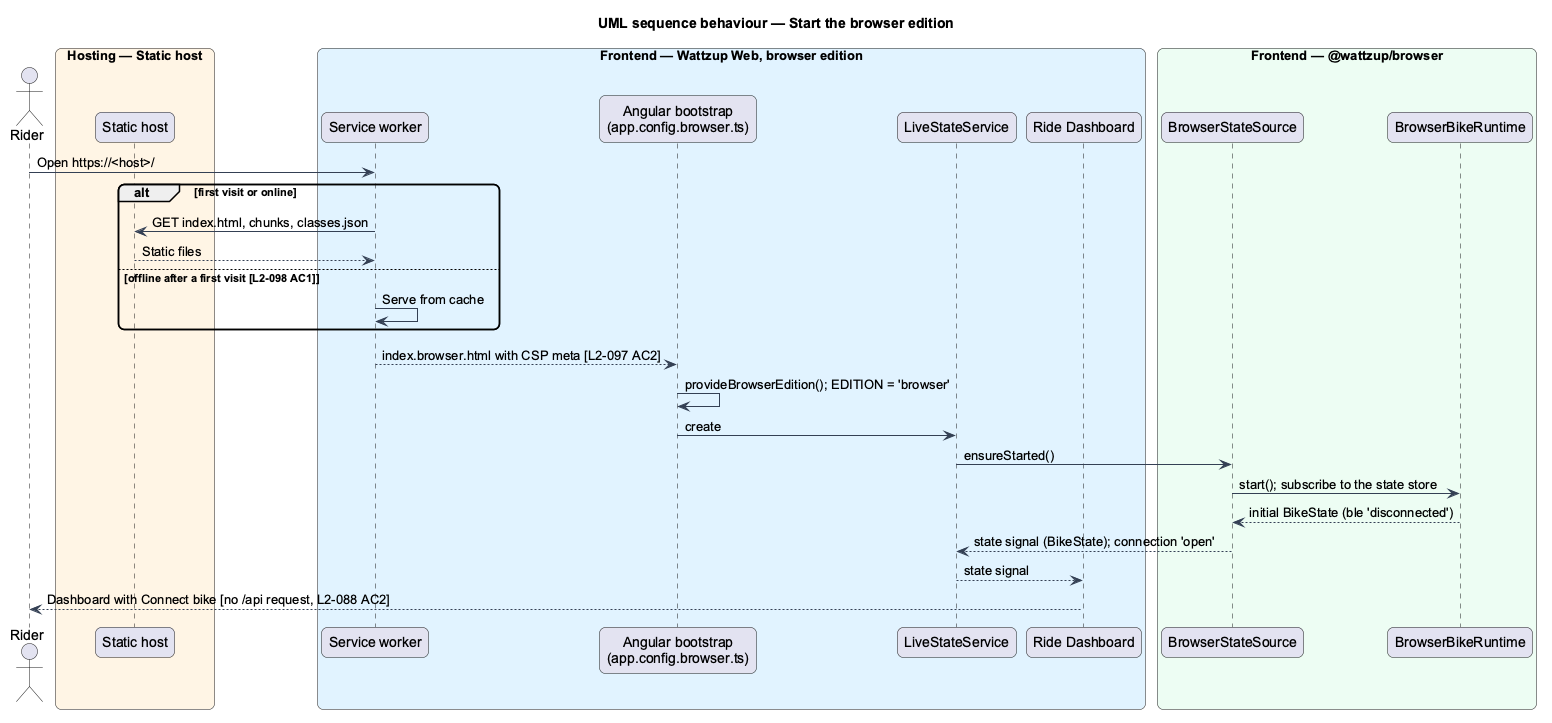
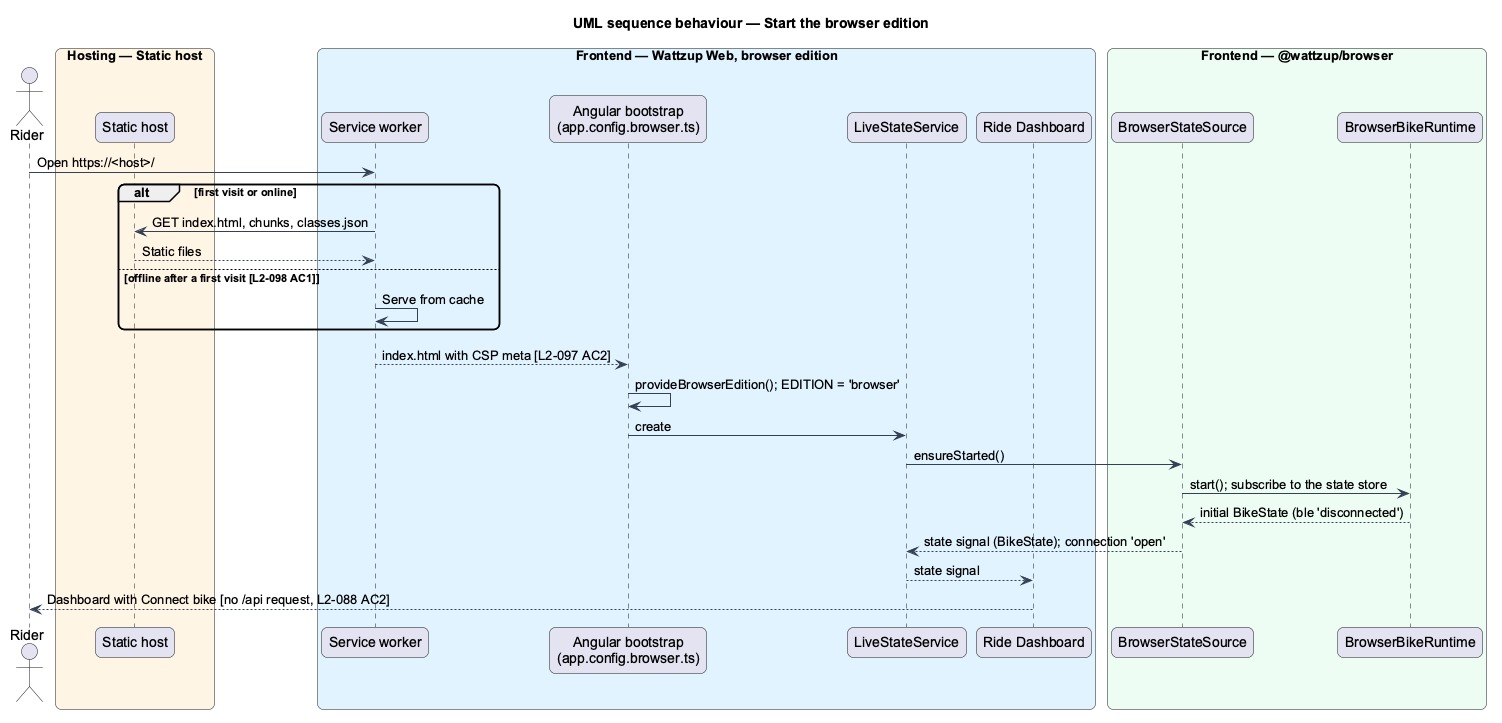
Carry the browser edition's Content-Security-Policy (L2-097 AC2)
index.browser.html, written out as index.html by both browser
configurations, carries the backend's policy as a <meta> element:
the page's own origin plus YouTube's player, script and thumbnails.

ADR 0018 records the two differences. A static host cannot mint the
per-response nonce the backend gives Angular's <style> elements, so
style-src allows 'unsafe-inline'. frame-ancestors has no <meta> form
and is left to the hosting example's header. L2-097 AC2 says so.

Every browser-edition spec fails on a console error, so the suite
proves no page breaks the policy.

Claude-Session: https://claude.ai/code/session_01LjZiMpoGntqpkHCTb1UvJf

diff --git a/frontend/e2e/browser/security.spec.ts b/frontend/e2e/browser/security.spec.ts
@@ -1,0 +1,35 @@
+// Acceptance Test
+// Traces to: L2-097
+// Description: The browser edition carries its Content-Security-Policy as a <meta> element. It
+// allows its own origin and the 3 YouTube exceptions only. Every browser-edition spec fails on a
+// console error, so a violation of the policy anywhere fails the suite.
+import { expect, test } from './fixtures/browser-test';
+import { BrowserRidePage } from './pages/browser-ride.page';
+
+test('every page carries the same-origin policy with the YouTube exceptions (L2-097 AC2)', async ({
+  page,
+}) => {
+  const ride = new BrowserRidePage(page);
+  await ride.open();
+  const policy = await ride.contentSecurityPolicy();
+  const directives = Object.fromEntries(
+    policy
+      .split(';')
+      .map((d) => d.trim().split(/\s+/))
+      .filter((d) => d[0])
+      .map(([name, ...values]) => [name, values]),
+  );
+  expect(directives).toMatchObject({
+    'default-src': ["'self'"],
+    'script-src': ["'self'", 'https://www.youtube.com'],
+    'connect-src': ["'self'"],
+    'img-src': ["'self'", 'data:', 'https://i.ytimg.com'],
+    'frame-src': ['https://www.youtube-nocookie.com'],
+    'font-src': ["'self'"],
+    'object-src': ["'none'"],
+    'base-uri': ["'self'"],
+  });
+  // A static host cannot mint a nonce per response, so Angular's own <style> elements need
+  // 'unsafe-inline' (ADR 0018); styles still load from no other origin.
+  expect(directives['style-src']).toEqual(["'self'", "'unsafe-inline'"]);
+});

diff --git a/frontend/projects/wattzup/src/index.browser.html b/frontend/projects/wattzup/src/index.browser.html
@@ -1,0 +1,21 @@
+<!doctype html>
+<html lang="en" data-theme="dark">
+  <head>
+    <meta charset="utf-8" />
+    <!-- The browser edition's policy, as the backend's header (L2-036) but static (L2-097, ADR 0018):
+         a static host cannot mint a style nonce, and a <meta> policy cannot carry frame-ancestors. -->
+    <meta
+      http-equiv="Content-Security-Policy"
+      content="default-src 'self'; script-src 'self' https://www.youtube.com; style-src 'self' 'unsafe-inline'; font-src 'self'; connect-src 'self'; img-src 'self' data: https://i.ytimg.com; frame-src https://www.youtube-nocookie.com; object-src 'none'; base-uri 'self'"
+    />
+    <meta name="referrer" content="no-referrer" />
+    <title>Wattzup</title>
+    <base href="/" />
+    <meta name="viewport" content="width=device-width, initial-scale=1" />
+    <meta name="color-scheme" content="dark" />
+    <link rel="icon" type="image/svg+xml" href="favicon.svg" />
+  </head>
+  <body>
+    <wz-root></wz-root>
+  </body>
+</html>

diff --git a/frontend/e2e/browser/pages/browser-ride.page.ts b/frontend/e2e/browser/pages/browser-ride.page.ts
@@ -56,6 +56,15 @@ export class BrowserRidePage {
     return this.page.locator('.metrics > div').filter({ hasText: term }).locator('dd');
   }
 
+  /** The policy of the page's Content-Security-Policy <meta> element (L2-097 AC2). */
+  async contentSecurityPolicy(): Promise<string> {
+    return (
+      (await this.page
+        .locator('meta[http-equiv="Content-Security-Policy"]')
+        .getAttribute('content')) ?? ''
+    );
+  }
+
   async open(query = ''): Promise<void> {
     await this.page.goto(`/${query}`);
   }

diff --git a/docs/detailed-designs/browser-edition/build-and-host/README.md b/docs/detailed-designs/browser-edition/build-and-host/README.md
@@ -23,7 +23,7 @@ Build:
 - **`browser` build configuration** (`frontend/angular.json`, project `wattzup`) — production settings with 5 differences from the default configuration:
   - `fileReplacements` swaps `src/app/app.config.ts` for `src/app/app.config.browser.ts`.
   - `outputPath` is `dist/wattzup-browser`, so the 2 editions never overwrite each other.
-  - `index` is `src/index.browser.html`, which carries the Content-Security-Policy `<meta>` element (L2-097).
+  - `index` is `src/index.browser.html`, written out as `index.html`, which carries the Content-Security-Policy `<meta>` element (L2-097).
   - `assets` add `manifest.webmanifest`, the app icons and `classes.json` (see `load-classes-in-browser`).
   - `serviceWorker` is `ngsw-config.json` (L2-098).
 - **`browser-development` configuration** — the same replacements without optimisation, used by `npm start -- --configuration browser`. Only this configuration honours `?simulate` (see `simulate-bike-in-browser`).
@@ -53,7 +53,7 @@ Wiring:
 Hosting, security and offline:
 
 - **Routing on a static host** — routes use the path location strategy, as in the backend edition. The README's *Browser edition* section gives the fallback setting for common hosts (Netlify `_redirects`, nginx `try_files`, `http-server --proxy`) so a deep link such as `/sessions/<id>` serves `index.html` (L2-088 criterion 3). `<TO SUPPLY>`: the default host, if the project publishes the edition itself.
-- **`index.browser.html`** — carries `<meta http-equiv="Content-Security-Policy">` with `default-src 'self'`, `connect-src 'self'`, `img-src 'self' data: https://i.ytimg.com`, `frame-src https://www.youtube-nocookie.com`, `script-src 'self' https://www.youtube.com`, `style-src 'self'` and `object-src 'none'` (L2-097 criterion 2). The hosting example also sends the same policy, `X-Content-Type-Options: nosniff` and `Referrer-Policy: no-referrer` as headers, because `frame-ancestors` and the other 2 headers have no `<meta>` form.
+- **`index.browser.html`** — the `index` of both browser configurations, written out as `index.html`. It carries `<meta http-equiv="Content-Security-Policy">` with `default-src 'self'`, `script-src 'self' https://www.youtube.com`, `style-src 'self' 'unsafe-inline'`, `font-src 'self'`, `connect-src 'self'`, `img-src 'self' data: https://i.ytimg.com`, `frame-src https://www.youtube-nocookie.com`, `object-src 'none'` and `base-uri 'self'`, and `<meta name="referrer" content="no-referrer">` (L2-097 criterion 2). It differs from the backend's header in 2 ways (ADR 0018): a static host cannot mint the per-response nonce the backend writes onto `<wz-root>`, so styles allow `'unsafe-inline'` for the `<style>` elements Angular injects; and `frame-ancestors` has no `<meta>` form. The hosting example sends the same policy plus `frame-ancestors 'none'`, `X-Content-Type-Options: nosniff` and `Referrer-Policy: no-referrer` as headers.
 - **Privacy** — the edition makes no request after loading except `classes.json`, its own static files and YouTube's player and thumbnails (L2-097 criterion 3). It has no analytics, error reporting or remote logging. Bluetooth names, error strings, catalogue text and imported text are bound as text, never as HTML (L2-097 criterion 4).
 - **Validation** — the in-browser contracts validate input with the same rules as the API and reject with the `HttpErrorResponse` the HTTP client would raise for the API's answer: the same status and ProblemDetails body with the same `code`, such as `invalid_plan` (400) and `already_connected` (409), so every screen handles it as in the backend edition (L2-097 criterion 6).
 - **`manifest.webmanifest`** — `name` `Wattzup`, `short_name` `Wattzup`, `start_url` `/`, `display` `standalone`, the theme and background colours from the design tokens, and 192 px and 512 px icons, including a maskable one (L2-098 criterion 2).
@@ -62,6 +62,7 @@ Hosting, security and offline:
 
 Verification:
 
+- `security.spec.ts` reads the policy's directives. Every browser-edition spec fails on a console error, so a violation of the policy on any page fails the suite (L2-097 criterion 2).
 - Browser-edition behaviour specs (`frontend/e2e/browser/`) run against `dist/wattzup-browser/browser` served by `scripts/serve-dist.mjs`. Every spec fails on any request to `/api/**` and on any origin other than its own and the faked YouTube (L2-088 criterion 2, L2-097 criterion 3).
 - A spec opens `/classes/<id>` and `/sessions/<id>` directly (L2-088 criterion 3).
 - The existing behaviour specs keep running against the backend edition unchanged (L2-088 criterion 4).
@@ -73,7 +74,7 @@ Verification:
 | L2 ID | Refines (L1) | Requirement |
 |-------|--------------|-------------|
 | `L2-088` | `L1-016` | Browser edition build and hosting. `npm run build:browser` shall produce static files in `dist/wattzup-browser/browser` that run Wattzup on any HTTPS static host, or on `http://localhost`, with no backend; the edition shall make no request to `/api/*` or another origin except YouTube, shall open deep links, shall leave the backend edition unchanged, shall look and behave as the backend edition except where L2-089 to L2-099 differ, and shall keep its initial JavaScript within 300 KB gzipped. |
-| `L2-097` | `L1-016` | Browser edition security and privacy. The edition shall have no API key, unlock page or event tokens; shall carry a Content-Security-Policy allowing only its own origin plus the 3 YouTube exceptions of L2-036; shall send no state, packet, session or device name off the device; shall render untrusted text as text; shall request only the Echelon service; and shall validate input by the API's rules with the API's `code` values. |
+| `L2-097` | `L1-016` | Browser edition security and privacy. The edition shall have no API key, unlock page or event tokens; shall carry a Content-Security-Policy allowing only its own origin plus the 3 YouTube exceptions of L2-036, with inline styles allowed because a static host cannot mint a nonce; shall send no state, packet, session or device name off the device; shall render untrusted text as text; shall request only the Echelon service; and shall validate input by the API's rules with the API's `code` values. |
 | `L2-098` | `L1-016` | Installable and offline. Once loaded over HTTPS, the edition shall load and run a ride from `/setup` offline, with class videos and covers unavailable; it shall be installable as an app; and a new version shall be used from the next load, never reloading a ride in progress. |
 
 ## Diagrams
@@ -104,7 +105,7 @@ The contracts and tokens live in `@wattzup/api`. The browser classes implement t
 
 ### Behaviour — start the browser edition
 
-The browser loads `index.browser.html` from the host or the service-worker cache. Angular bootstraps with the browser composition root, the runtime starts, and the dashboard renders from `LiveStateService` with no request to `/api` (L2-088, L2-097).
+The browser loads `index.html`, built from `index.browser.html`, from the host or the service-worker cache. Angular bootstraps with the browser composition root, the runtime starts, and the dashboard renders from `LiveStateService` with no request to `/api` (L2-088, L2-097).
 
 ![Sequence for starting the browser edition](diagrams/sequence-start.png)
 

diff --git a/docs/adr/0018-static-content-security-policy.md b/docs/adr/0018-static-content-security-policy.md
@@ -1,0 +1,44 @@
+# 0018. A static Content-Security-Policy for the browser edition
+
+- **Status:** Accepted
+- **Date:** 2026-11-19
+- **Amends:** [0017](0017-browser-edition.md)
+
+## Context
+
+The backend edition sends its Content-Security-Policy as a header on every response (L2-036). The
+policy allows styles from the page's own origin and from `<style>` elements that carry a nonce.
+The nonce is new for each response, and the backend writes it onto `<wz-root>` as `ngCspNonce`, so
+Angular stamps it on the `<style>` elements it injects for component styles.
+
+The browser edition is a folder of static files (ADR 0017). Any HTTPS static host serves it, and
+L2-097 asks that the policy travel with the page as a `<meta>` element. A static host returns the
+same bytes to every visitor, so it cannot mint a nonce per response. A nonce written into the file
+would be public, and a public nonce stops nothing that `'unsafe-inline'` would allow. Angular
+injects component styles as `<style>` elements, so without a nonce they need `'unsafe-inline'`.
+
+A `<meta>` policy also cannot carry `frame-ancestors`. Chromium ignores the directive there and
+logs an error for it.
+
+## Decision
+
+**The browser edition carries the backend's policy in a `<meta>` element of
+`index.browser.html`, with `style-src 'self' 'unsafe-inline'` instead of a nonce and without
+`frame-ancestors`.** Every other directive is the backend's: scripts, connections, fonts and images
+come from the page's own origin only, plus the 3 YouTube exceptions of L2-036.
+
+The hosting example in the README also sends the policy as a header, adding `frame-ancestors
+'none'`, `X-Content-Type-Options: nosniff` and `Referrer-Policy: no-referrer`, for hosts that
+can set headers.
+
+## Consequences
+
+- An attacker who could insert markup could add inline styles. That is all the change allows:
+  scripts still run only from the page's own origin and YouTube, connections reach no other
+  origin, and untrusted text is rendered as text (L2-097 criterion 4).
+- On a host that cannot send headers, another site may frame the edition. Web Bluetooth is not
+  available to a cross-origin frame unless the parent page allows it, so a framing page still
+  cannot reach the bike.
+- L2-097 criterion 2 names the `'unsafe-inline'` style exception.
+- The browser-edition specs fail on any console error, so a policy violation anywhere fails the
+  suite.

diff --git a/docs/specs/L2.md b/docs/specs/L2.md
@@ -1409,7 +1409,7 @@ The browser edition applies the rules of the backend edition: packet framing, de
 
 **Acceptance Criteria:**
 1. Given the browser edition, then it has no API key, unlock page or event tokens, and the unlock page (L2-055) is not offered.
-2. Given any page of the edition, then a Content-Security-Policy (as a `<meta>` element, and in the hosting example as a header) allows only same-origin scripts, styles, connections and images, plus `frame-src https://www.youtube-nocookie.com`, `script-src https://www.youtube.com` and `img-src https://i.ytimg.com` (L2-036 criterion 4); `connect-src` allows no other origin.
+2. Given any page of the edition, then a Content-Security-Policy (as a `<meta>` element, and in the hosting example as a header) allows only same-origin scripts, styles, fonts, connections and images, plus `frame-src https://www.youtube-nocookie.com`, `script-src https://www.youtube.com` and `img-src https://i.ytimg.com` (L2-036 criterion 4); `connect-src` allows no other origin. Because a static host cannot mint a nonce, `style-src` also allows `'unsafe-inline'` for the `<style>` elements Angular injects, and `frame-ancestors 'none'` is sent only in the hosting example's header (ADR 0018).
 3. Given a ride, then no state, packet, session or device name is sent off the device; the only network requests after loading are the catalogue file and YouTube's player and thumbnails.
 4. Given Bluetooth device names, error strings, catalogue text and imported session text, then they are rendered as text, never as HTML.
 5. Given the Web Bluetooth request, then it asks for the Echelon service only; the edition never lists or reads other devices or services.

diff --git a/docs/adr/README.md b/docs/adr/README.md
@@ -18,4 +18,5 @@
 | [0014](0014-class-catalogue-as-a-file.md) | A class catalogue in a file, with YouTube thumbnails as covers | Accepted, amended by 0017 |
 | [0015](0015-sessions-kept-in-a-file.md) | Sessions kept in a file, computed in Core | Accepted, amended by 0016 and 0017 |
 | [0016](0016-bike-only.md) | Wattzup supports the bike only | Accepted |
-| [0017](0017-browser-edition.md) | A browser edition with no backend | Accepted |
+| [0017](0017-browser-edition.md) | A browser edition with no backend | Accepted, amended by 0018 |
+| [0018](0018-static-content-security-policy.md) | A static Content-Security-Policy for the browser edition | Accepted |
